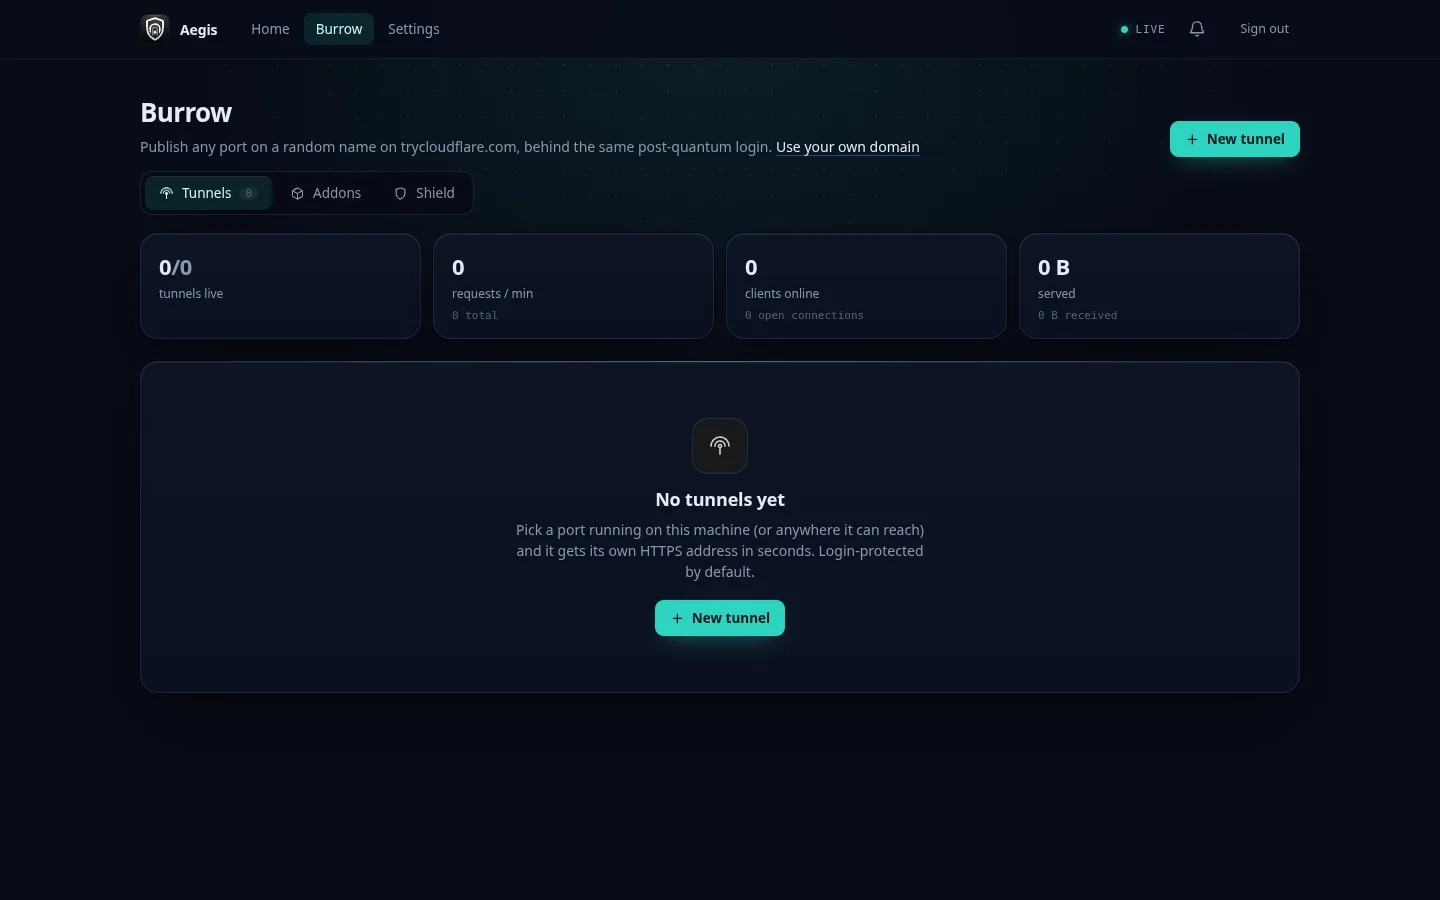
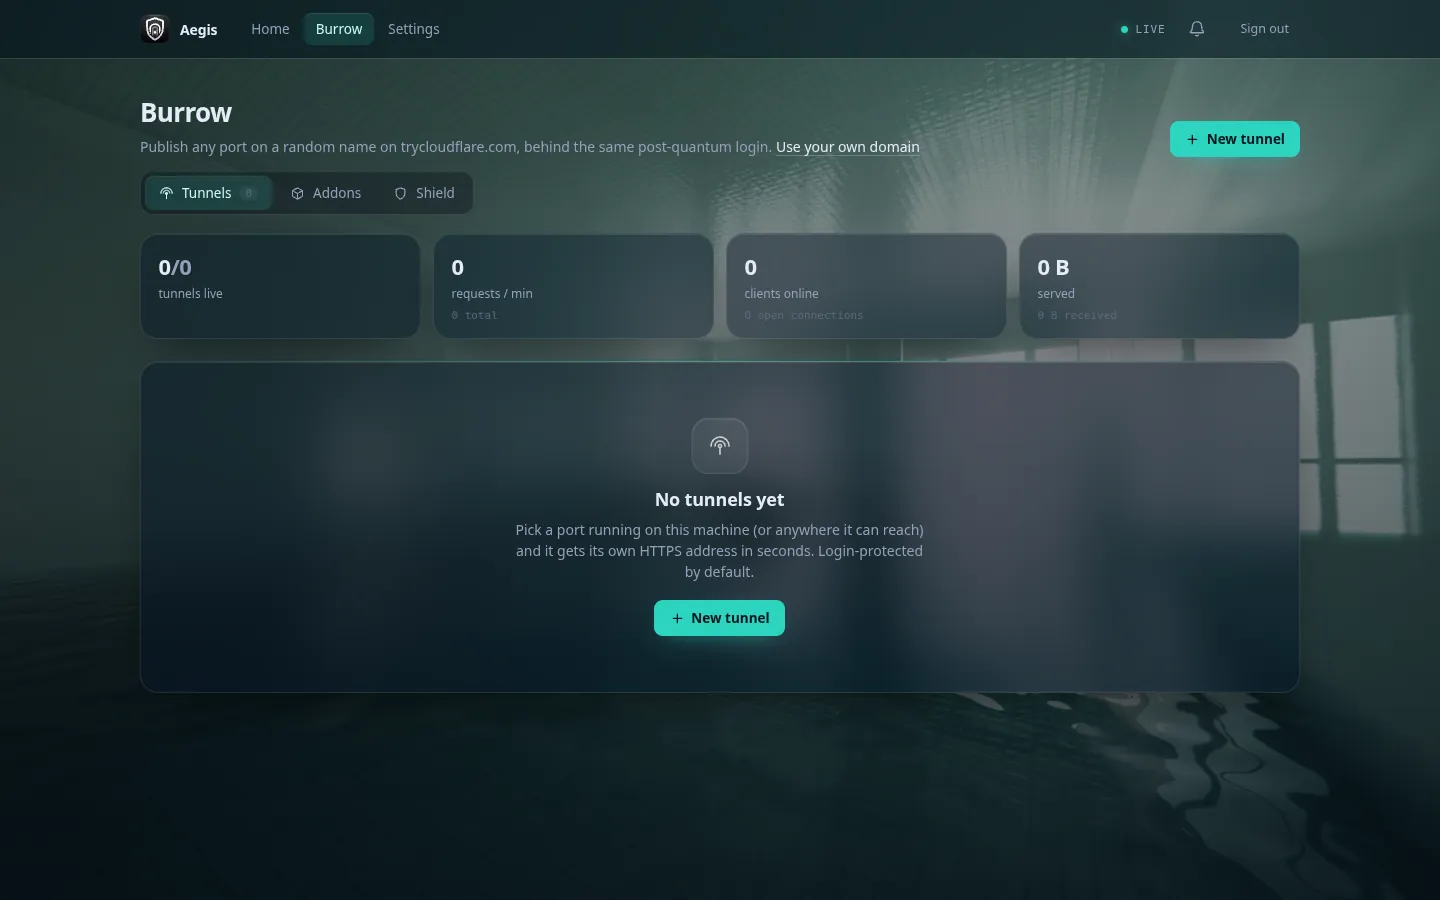
Midnight 1.1.0: liquid glass over a background you pick
Cards, the bar, menus and dialogs are tinted glass panes (an edge, a top
highlight, a deep blur) over a background: three drawn by the theme
(Night sky, Tide, Ink), fourteen recommended wallpapers, or your own
picture, GIF or video through the host's picker (spec 12.6). Still
styles only. The bar's blur is a layer behind it so the notices menu
blurs the page too, and the welcome fits short windows. Proven stable
on Aegis × Burrow 2.46.0.

diff --git a/examples/themes/midnight/theme.css b/examples/themes/midnight/theme.css
@@ -1,35 +1,119 @@
 /* Midnight, a Weft example theme (weft/examples/themes/midnight).
    Styles only, layered on top of the dashboard's own (theme.css): deep ink
-   blue, a teal accent, dotted sky. Copy this folder to start your own. */
+   blue, a teal accent, and liquid glass over a background you pick (one of
+   the three drawn here, or your own picture, GIF or video; the core host does
+   the picking and the drawing, 12.6). Copy this folder to start your own. */
 :root {
   --bg: #070b16;
-  --card: #0e1424;
-  --card-2: #0a1020;
-  --raise: #131b2e;
-  --field: #060a14;
-  --line: rgba(140, 170, 255, .08);
-  --line-2: rgba(140, 170, 255, .14);
-  --line-hi: rgba(140, 170, 255, .32);
+  --card: rgba(14, 20, 38, .46);
+  --card-2: rgba(10, 15, 30, .4);
+  --raise: rgba(255, 255, 255, .07);
+  --field: rgba(0, 4, 14, .32);
+  --line: rgba(160, 190, 255, .09);
+  --line-2: rgba(160, 190, 255, .15);
+  --line-hi: rgba(160, 190, 255, .34);
   --text: #e6ecf8;
-  --muted: #8b97b2;
-  --faint: #56607a;
+  --muted: #93a0bb;
+  --faint: #5c6782;
   --ok: #2dd4bf;
   --mid-accent: #2dd4bf;
+  /* the glass: a tinted pane, a bright edge, a top highlight, a deep blur */
+  --glass: rgba(12, 18, 34, .44);
+  --glass-2: rgba(255, 255, 255, .055);
+  --glass-pop: rgba(14, 19, 34, .74);
+  --glass-edge: rgba(255, 255, 255, .1);
+  --glass-hi: inset 0 1px 0 rgba(255, 255, 255, .09);
+  --glass-blur: blur(26px) saturate(1.6);
+  --glass-shadow: 0 20px 50px -20px rgba(0, 0, 0, .6);
+  --weft-shade: linear-gradient(180deg, rgba(5, 9, 20, .34) 0%, rgba(5, 9, 20, .5) 50%, rgba(5, 9, 20, .72) 100%);
 }
+
+/* ---- the backgrounds drawn here (the user's own pictures are the host's) ---- */
+html { background: var(--bg); }
+.weft-bg-theme { background: var(--bg); }
+html[data-bg="tide"] .weft-bg-theme {
+  background:
+    radial-gradient(60% 50% at 12% 8%, rgba(45, 212, 191, .26), transparent 70%),
+    radial-gradient(55% 55% at 92% 28%, rgba(99, 102, 241, .3), transparent 70%),
+    radial-gradient(70% 60% at 50% 110%, rgba(14, 116, 144, .32), transparent 70%),
+    linear-gradient(160deg, #081226, #050914 60%);
+}
+html[data-bg="ink"] .weft-bg-theme { background: #05070d; }
 body::before {
-  background-image: radial-gradient(rgba(140, 170, 255, .14) 1px, transparent 1.2px);
+  background-image: radial-gradient(rgba(160, 190, 255, .14) 1px, transparent 1.2px);
   background-size: 26px 26px;
 }
 body::after { background: radial-gradient(closest-side, rgba(45, 212, 191, .09), transparent); }
-.top { background: rgba(7, 11, 22, .82); border-bottom-color: rgba(140, 170, 255, .1); }
-.card { border-radius: 18px; }
+html[data-bg="tide"] body::before { opacity: .45; }
+html[data-bg="tide"] body::after, html[data-bg="ink"] body::before, html[data-bg="ink"] body::after,
+html[data-bg="media"] body::before, html[data-bg="media"] body::after { display: none; }
+
+/* ---- glass surfaces ---- */
+.card {
+  border-radius: 18px; background: var(--glass); border-color: var(--glass-edge);
+  -webkit-backdrop-filter: var(--glass-blur); backdrop-filter: var(--glass-blur);
+  box-shadow: var(--glass-hi), var(--glass-shadow);
+}
+/* a pane inside a pane is tinted, not blurred again (one blur per layer keeps it smooth) */
+.card .card { background: var(--glass-2); -webkit-backdrop-filter: none; backdrop-filter: none; box-shadow: var(--glass-hi); }
 .card.lit::before { background: linear-gradient(90deg, transparent, rgba(45, 212, 191, .55), transparent); }
+/* the bar's glass is a layer behind it, not the bar itself: a blurred element
+   hides the page from the blur of anything inside it, like the notices menu */
+.top { background: none; border-bottom-color: var(--glass-edge); -webkit-backdrop-filter: none; backdrop-filter: none; }
+.top::before {
+  content: ""; position: absolute; inset: 0; z-index: -1; pointer-events: none; background: rgba(8, 12, 26, .5);
+  -webkit-backdrop-filter: var(--glass-blur); backdrop-filter: var(--glass-blur);
+}
+.shield, .ico, .cz-gear, .empty .big, .ab-ico, .ab-choice-i, .fw-stage b { background: var(--glass-2); border-color: var(--glass-edge); box-shadow: var(--glass-hi); }
+.ico.img { background: rgba(0, 0, 0, .3); }
+
+/* floating things: menus, popovers, the toast, dialogs */
+.nt-pop, .ds-pop, .more-menu, .toast, .fw-tip, .modal, .scrim > .card {
+  background: var(--glass-pop); border-color: var(--glass-edge);
+  -webkit-backdrop-filter: blur(30px) saturate(1.6); backdrop-filter: blur(30px) saturate(1.6);
+  box-shadow: var(--glass-hi), 0 24px 60px -18px rgba(0, 0, 0, .8);
+}
+.more-menu { background: rgba(14, 19, 34, .92); }
+.nt-head { background: rgba(14, 19, 34, .6); border-bottom-color: var(--glass-edge); }
+.scrim { background: rgba(3, 5, 10, .45); -webkit-backdrop-filter: blur(4px); backdrop-filter: blur(4px); }
+.fw-controls, .fw-legend { background: rgba(10, 14, 26, .7); border-color: var(--glass-edge); -webkit-backdrop-filter: blur(14px); backdrop-filter: blur(14px); }
+
+/* fields and switches sit a shade darker than the glass */
+.input, .fld input, .fld select, .addr, .seg, .subtabs { background: var(--field); border-color: var(--glass-edge); }
+.addr .zone-pick option { background: #0e1424; }
+.note-box, .naming, .ab-code, .root-cmd, .th-pre, pre.log, .jlog { background: rgba(0, 4, 14, .3); border-color: var(--glass-edge); }
+.ab-client, .adc .dl, .upd-list, .th-row, .th-box, .fl-choice { background: var(--glass-2); border-color: var(--glass-edge); }
+.bar, .jbar, .fl-meter, .fl-bar i { background: rgba(255, 255, 255, .07); }
+
+/* hover and the chosen thing: brighter glass with the top highlight */
+.tabs a:hover { background: rgba(255, 255, 255, .06); }
+.tabs a.on, .subtabs button.on, .seg button.on { background: rgba(45, 212, 191, .14); color: #ccfbf1; box-shadow: var(--glass-hi); }
+.route.on { background: rgba(45, 212, 191, .1); border-color: rgba(45, 212, 191, .45); }
+.fl-choice:hover { background: rgba(255, 255, 255, .09); }
+
+/* ---- the teal accent ---- */
 .btn.primary { background: var(--mid-accent); color: #03161a; box-shadow: 0 8px 24px -12px rgba(45, 212, 191, .8); }
 .btn.primary:hover { background: #5eead4; }
-.tabs a.on, .subtabs button.on, .seg button.on { background: rgba(45, 212, 191, .12); color: #ccfbf1; }
 .switch input:checked + i { background: rgba(45, 212, 191, .25); border-color: rgba(45, 212, 191, .5); }
 .switch input:checked + i::after { background: var(--mid-accent); }
 .pill.ok { color: #5eead4; border-color: rgba(45, 212, 191, .4); background: rgba(45, 212, 191, .08); }
-.input:focus { border-color: rgba(45, 212, 191, .55); box-shadow: 0 0 0 3px rgba(45, 212, 191, .12); }
+.input:focus, .fld input:focus, .fld select:focus { border-color: rgba(45, 212, 191, .55); box-shadow: 0 0 0 3px rgba(45, 212, 191, .12); }
 .opt:hover { border-color: rgba(45, 212, 191, .4); }
 ::selection { background: rgba(45, 212, 191, .35); }
+
+/* ---- the welcome and the background picker (the host's, restyled to match) ---- */
+.wh-scrim { background: rgba(3, 5, 10, .5); }
+.wh-modal { background: var(--glass-pop); border-color: var(--glass-edge); -webkit-backdrop-filter: blur(30px) saturate(1.6); backdrop-filter: blur(30px) saturate(1.6); box-shadow: var(--glass-hi), 0 40px 120px -40px rgba(0, 0, 0, .95); }
+.wh-modal { --wh-accent: #2dd4bf; }
+.wh-tile.on { border-color: var(--mid-accent); }
+/* short windows: the picture gives up height first, then the words scroll; the buttons always show */
+.wh-shots { width: 100%; max-height: max(150px, calc(100vh - 400px)); max-height: max(150px, calc(100dvh - 400px)); }
+.wh-modal:not(:has(.wh-scroll)) > .wh-head { flex: 0 1 auto; min-height: 0; overflow-y: auto; overscroll-behavior: contain; }
+.wh-scroll { overscroll-behavior: contain; }
+html:has(> body > .wh-scrim) { overflow: hidden; scrollbar-gutter: stable; }
+
+/* no blur where it can't run smoothly, or the user asked for less */
+@media (prefers-reduced-transparency: reduce) {
+  :root { --glass: rgba(12, 18, 34, .92); --glass-pop: rgba(14, 19, 34, .97); }
+  .card, .top::before, .nt-pop, .ds-pop, .more-menu, .toast, .modal, .wh-modal { -webkit-backdrop-filter: none; backdrop-filter: none; }
+}
